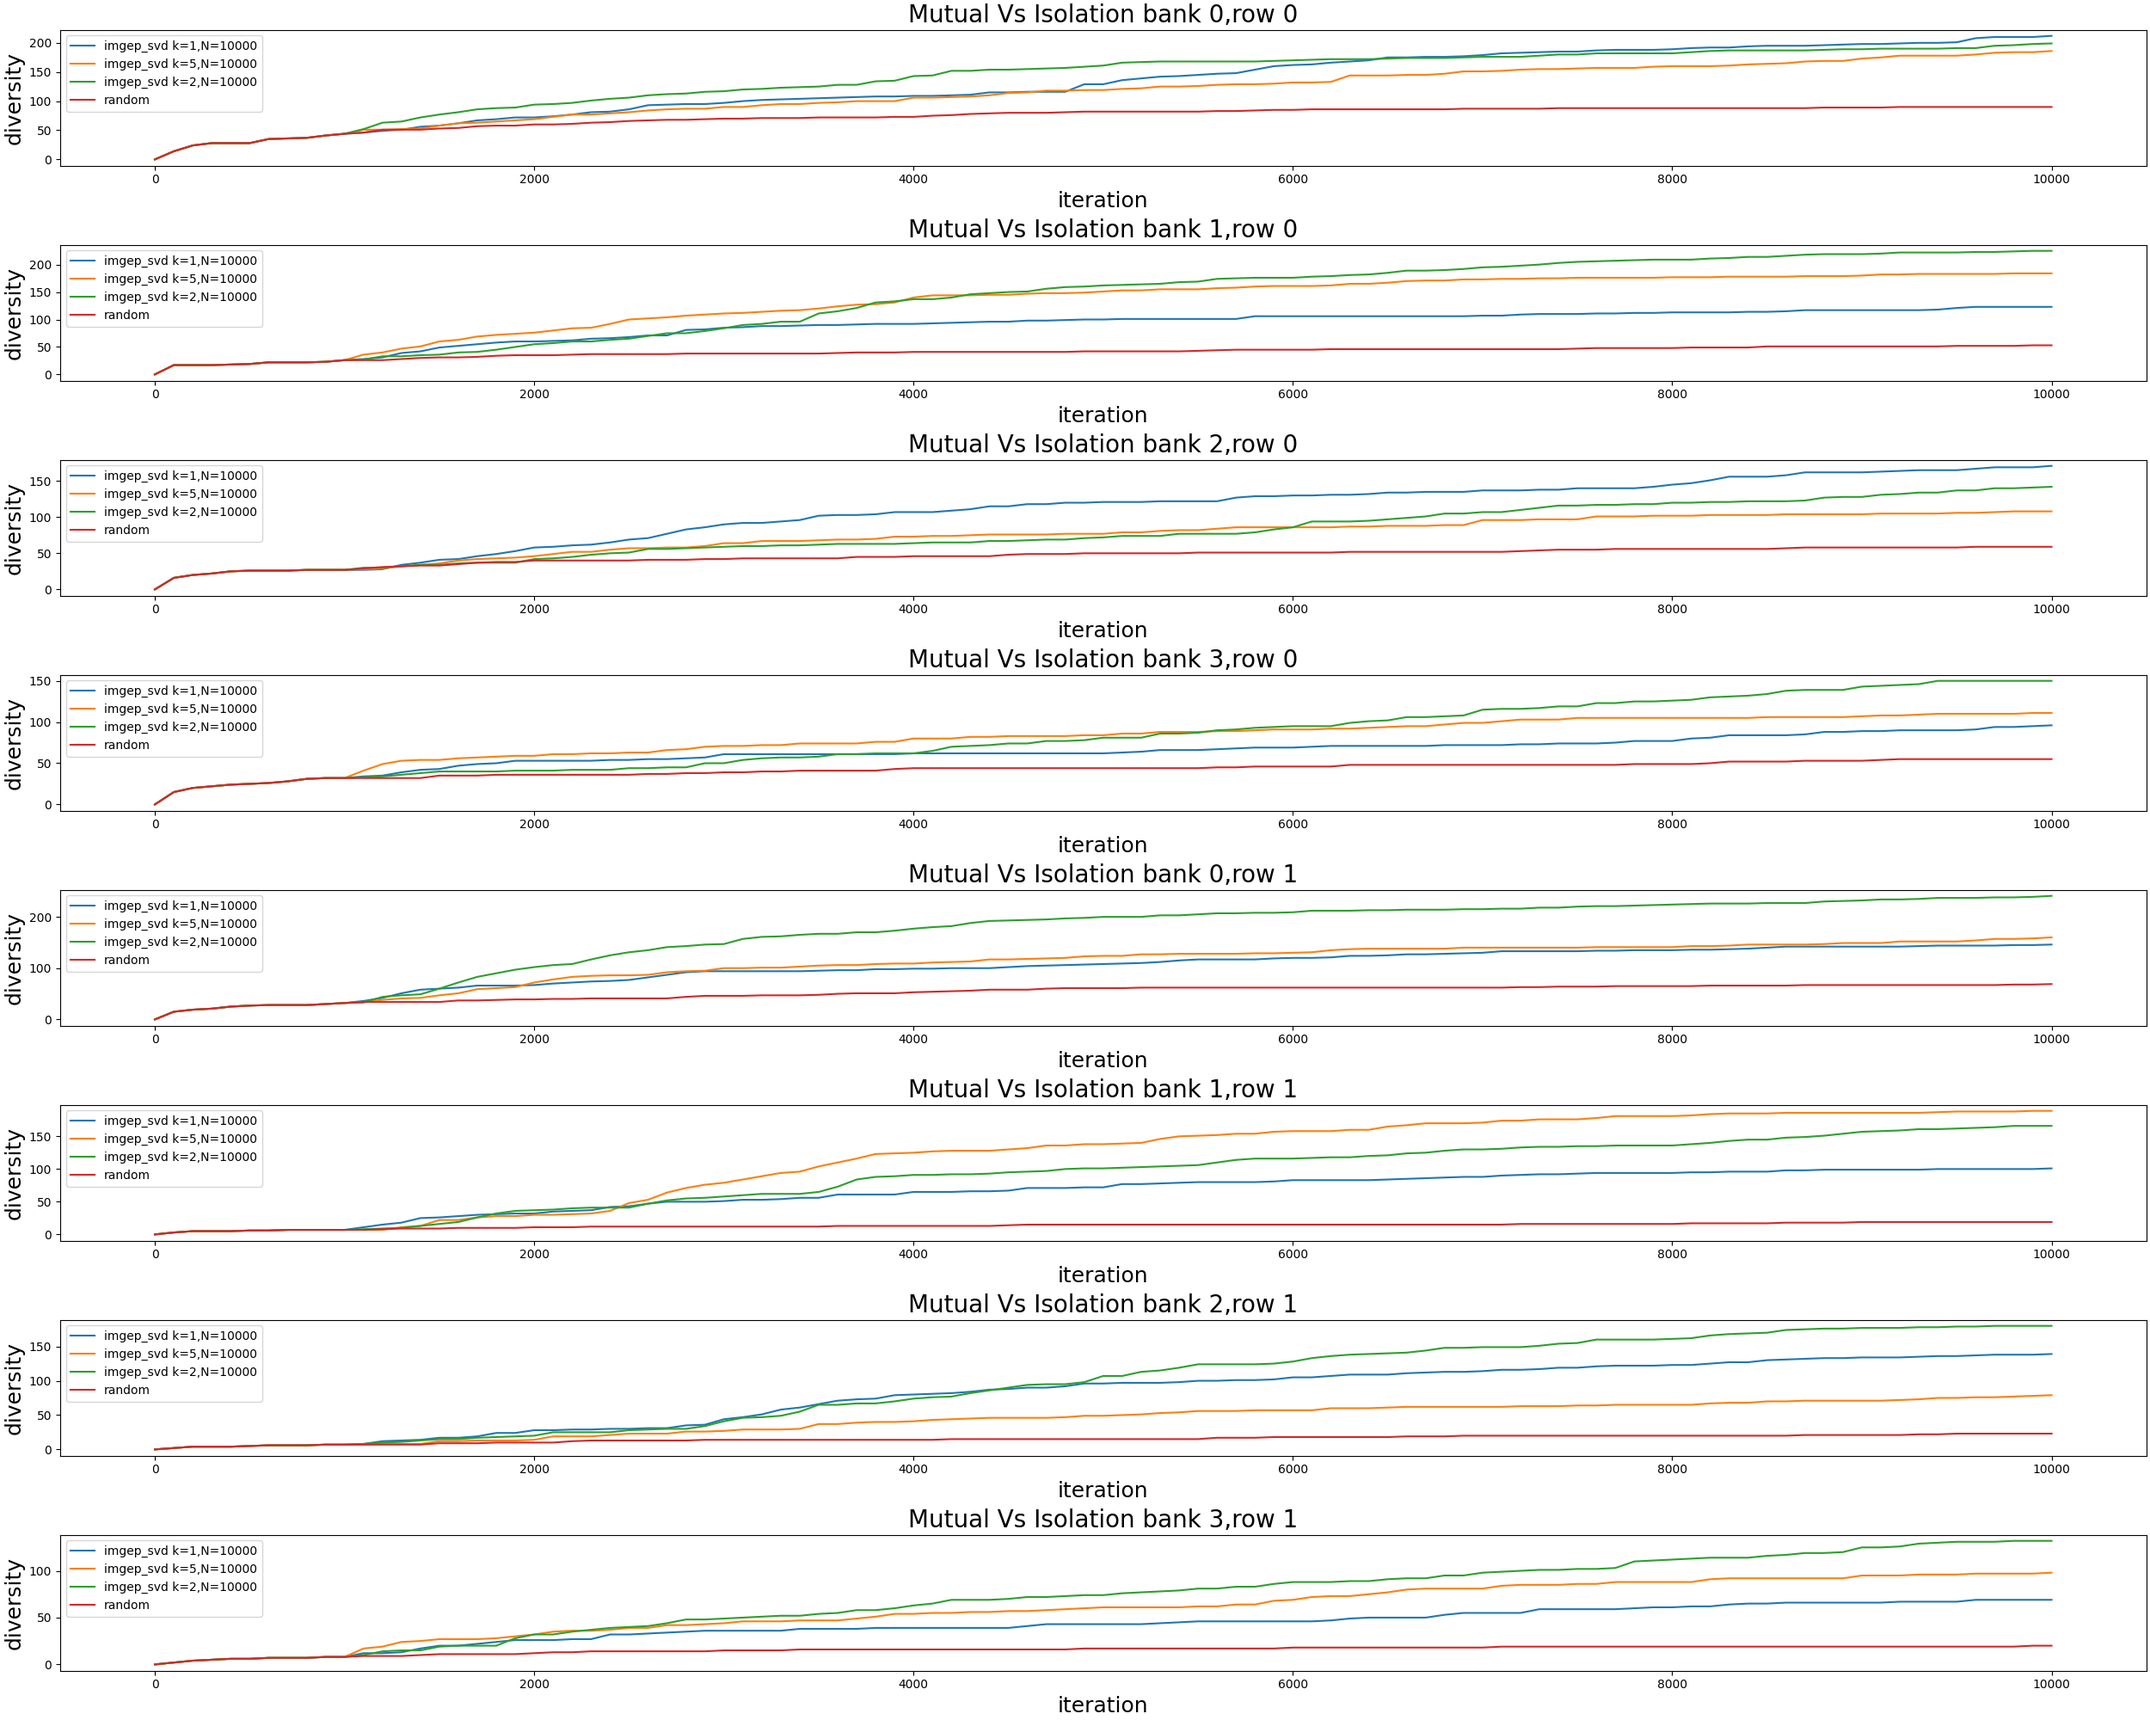
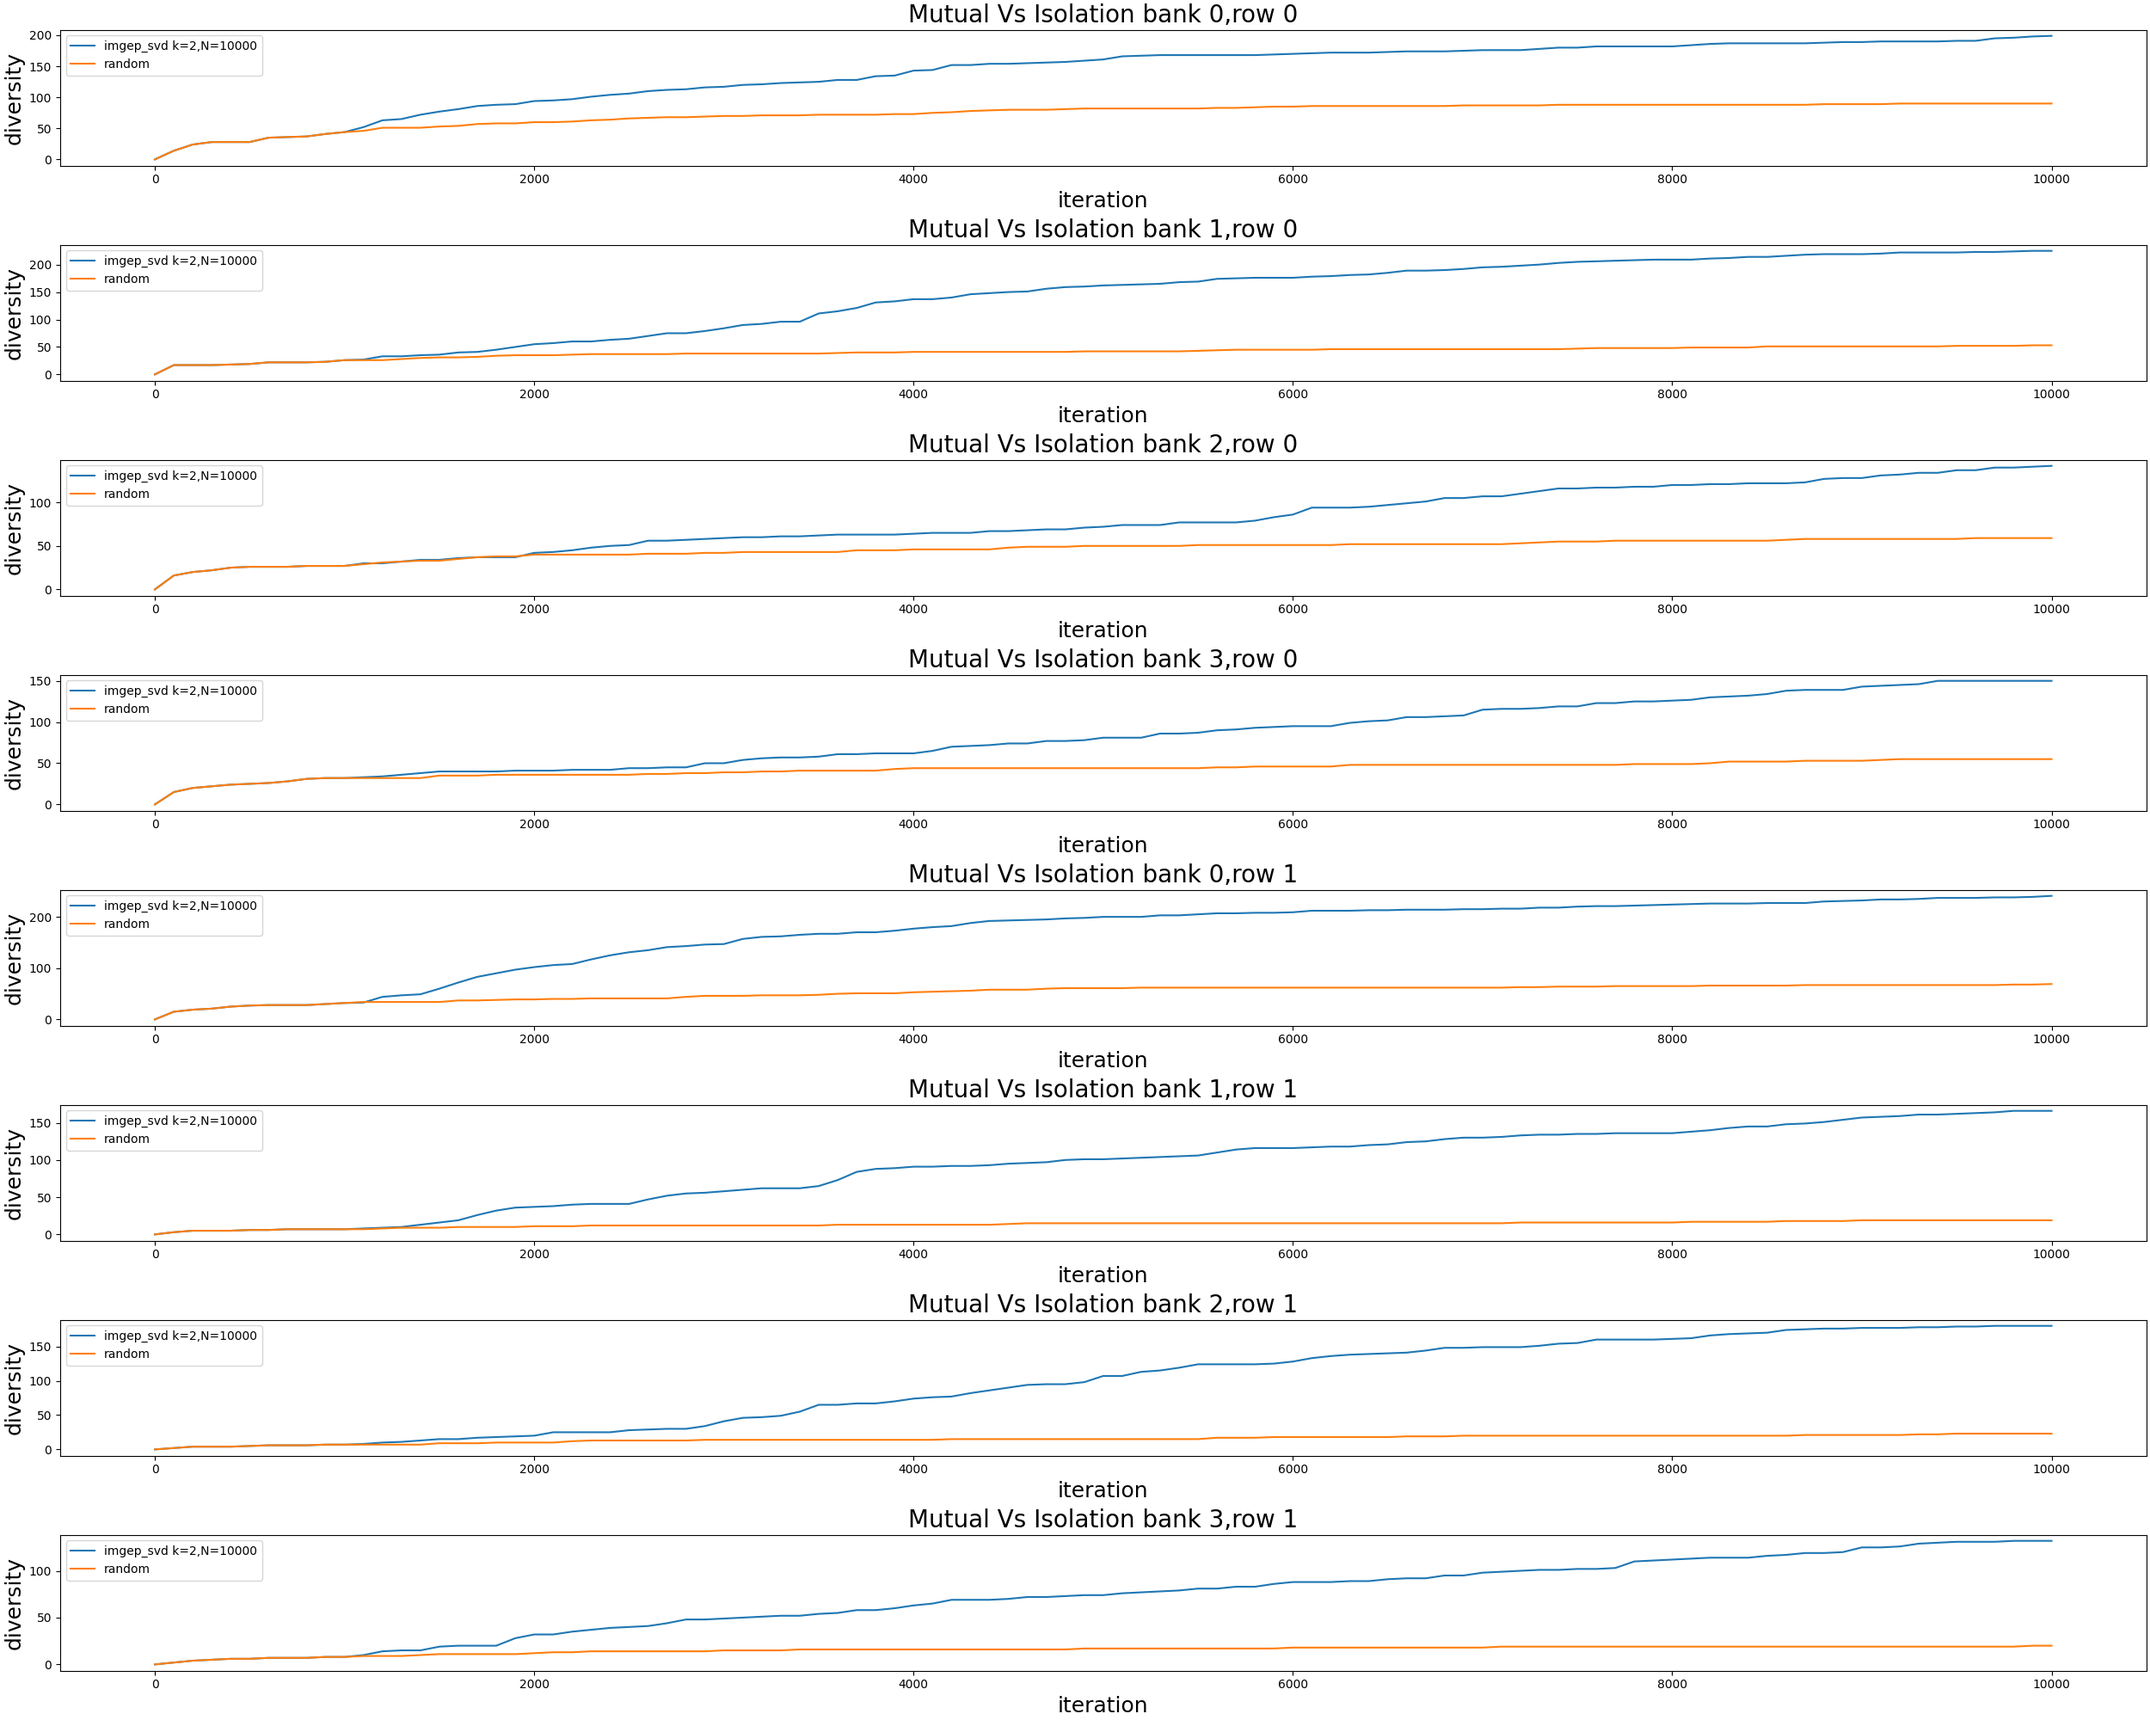
update visualization and exploration k 10

diff --git a/visu2.py b/visu2.py
@@ -10,10 +10,13 @@ def comparaison3(content_random, content_imgep = None, name = None, title = None
         for row in range(num_row):
             bins = np.arange(-1.0,1.0,0.05)
             axs[num_bank*row+j,0].hist(content_imgep["miss_ratios_detailled"][:,row,j] - content_imgep["miss_ratios_core0_detailled"][:,row,j],bins=bins,alpha = .5, label=label_algo)
+            axs[num_bank*row+j,0].set_yscale('log')
             axs[num_bank*row+j,0].hist(content_random["miss_ratios_detailled"][:,row,j] - content_random["miss_ratios_core0_detailled"][:,row,j],  bins=bins,alpha = .5, label="random")
             axs[num_bank*row+j,0].set_xlabel(f"ratio[bank{j+1},row{row},(S_0,S_1)] - ratio[bank{j+1},row{row},(S_0,)]")
             axs[num_bank*row+j,0].set_title("row miss hits ratio difference")
             axs[num_bank*row+j,0].legend()
+            axs[num_bank*row+j,0].set_yscale('log')
+
             axs[num_bank*row+j,1].hist(content_imgep["miss_ratios_detailled"][:,row,j] - content_imgep["miss_ratios_core1_detailled"][:,row,j],bins=bins,alpha = .5, label=label_algo)
             axs[num_bank*row+j,1].hist(content_random["miss_ratios_detailled"][:,row,j] - content_random["miss_ratios_core1_detailled"][:,row,j],  bins=bins,alpha = .5, label="random")
 #            axs[num_bank*row+j,1].hist(content_imgep["miss_ratios"][:,j] - content_imgep["miss_ratios_core1"][:,j],bins=bins,alpha = .5, label=label_algo)
@@ -21,6 +24,7 @@ def comparaison3(content_random, content_imgep = None, name = None, title = None
             axs[num_bank*row+j,1].set_xlabel(f"ratio[bank{j+1},row{row},(S_0,S_1)] - ratio[bank{j+1},row{row},(,S_1)]")
             axs[num_bank*row+j,1].set_title("row miss hits ratio difference")
             axs[num_bank*row+j,1].legend()
+            axs[num_bank*row+j,1].set_yscale('log')
 
             diversity_ratio_random = diversity([content_random["miss_ratios_core0_detailled"][:,row,j],  content_random["miss_ratios_detailled"][:,row,j]], [bins, bins])
             diversity_ratio_imgep = diversity([content_imgep["miss_ratios_core0_detailled"][:,row,j],  content_imgep["miss_ratios_detailled"][:,row,j]], [bins, bins])

diff --git a/visu_svd.py b/visu_svd.py
@@ -12,11 +12,11 @@ if __name__ == "__main__":
     num_addr = 20
     file_mix = lambda k,N: f"history_weak_{k}_N_{N}_0.pkl"
     file_imgep_ir = lambda k,N: f"history_kNN_{k}_N_{N}_lp_0.pkl"
-    file_imgep_no_ir = lambda k,N: f"history_kNN_{k}_N_{N}_svd_0.pkl"
+    file_imgep_svd = lambda k,N: f"history_kNN_{k}_N_{N}_svd_0.pkl"
     files = []
 #    files +=[{"folder":folder[2],"file":file_mix(k,N),"name":f"mix_programs k={k},N={N}","k":k,"N":N,"type":"mix_programs"} for k in ks]
 #    files +=[{"folder":folder[0],"file":file_imgep_ir(k,N),"name":f"imgep_ir k={k},N={N}","k":k,"N":N,"type":"imgep_ir"} for k in ks]
-    files +=[{"folder":folder[1],"file":file_imgep_no_ir(k,N),"name":f"imgep_svd k={k},N={N}","k":k,"N":N,"type":"imgep_no_ir"} for k in ks]
+    files +=[{"folder":folder[1],"file":file_imgep_svd(k,N),"name":f"imgep_svd k={k},N={N}","k":k,"N":N,"type":"imgep_svd"} for k in ks]
     if os.path.exists(image_folder)==False:
         os.system(f"mkdir {image_folder}")
     random = {"folder":folder[0],
